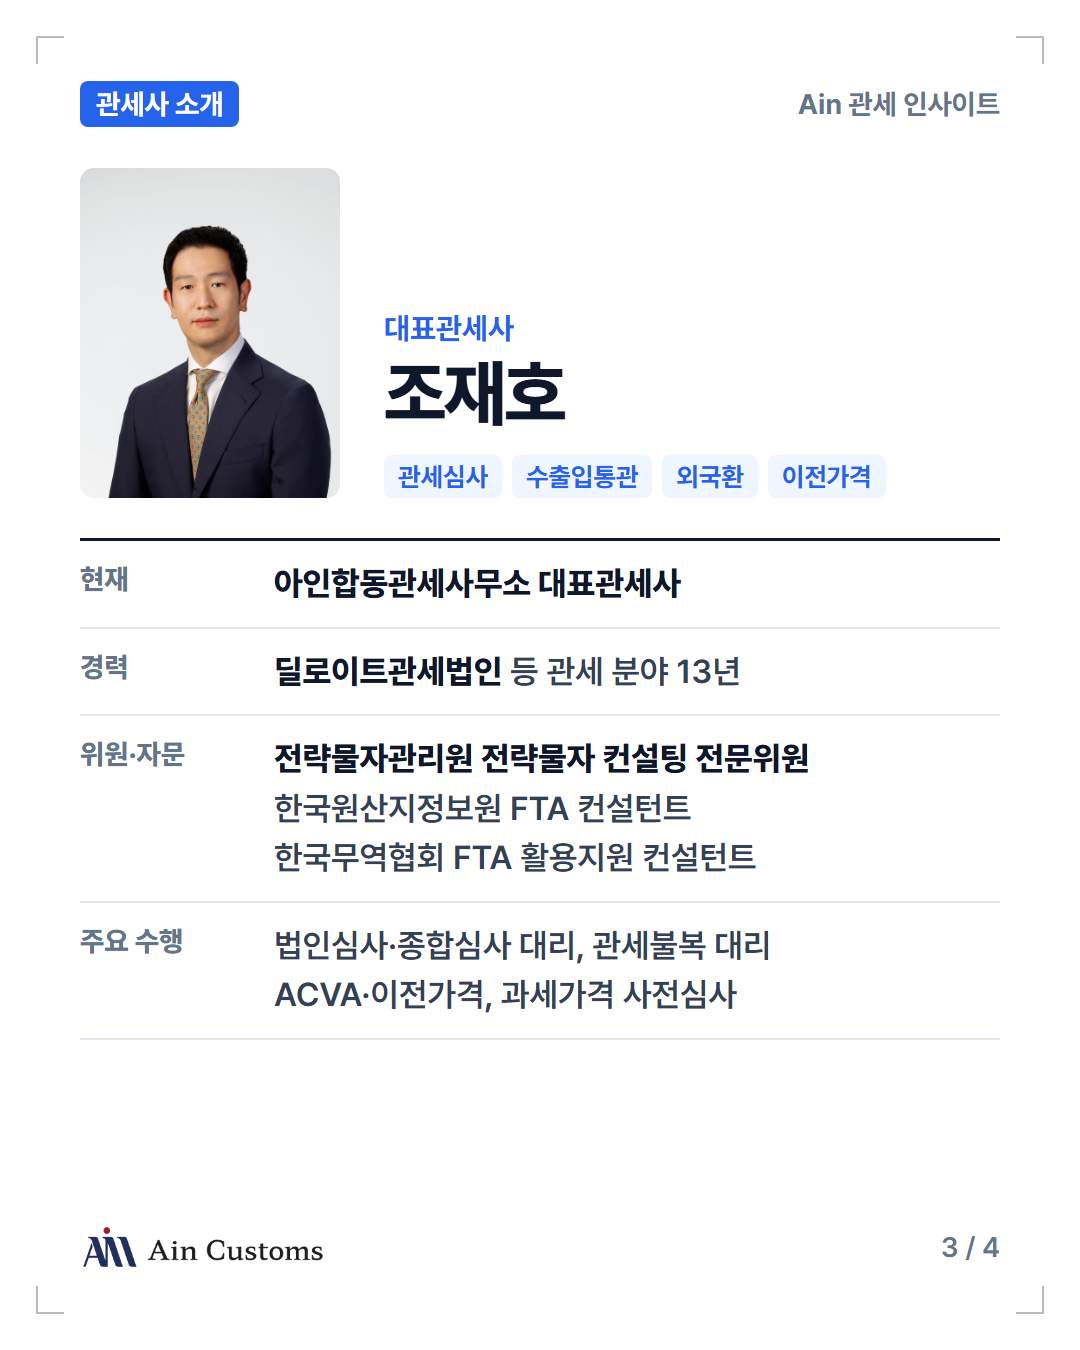
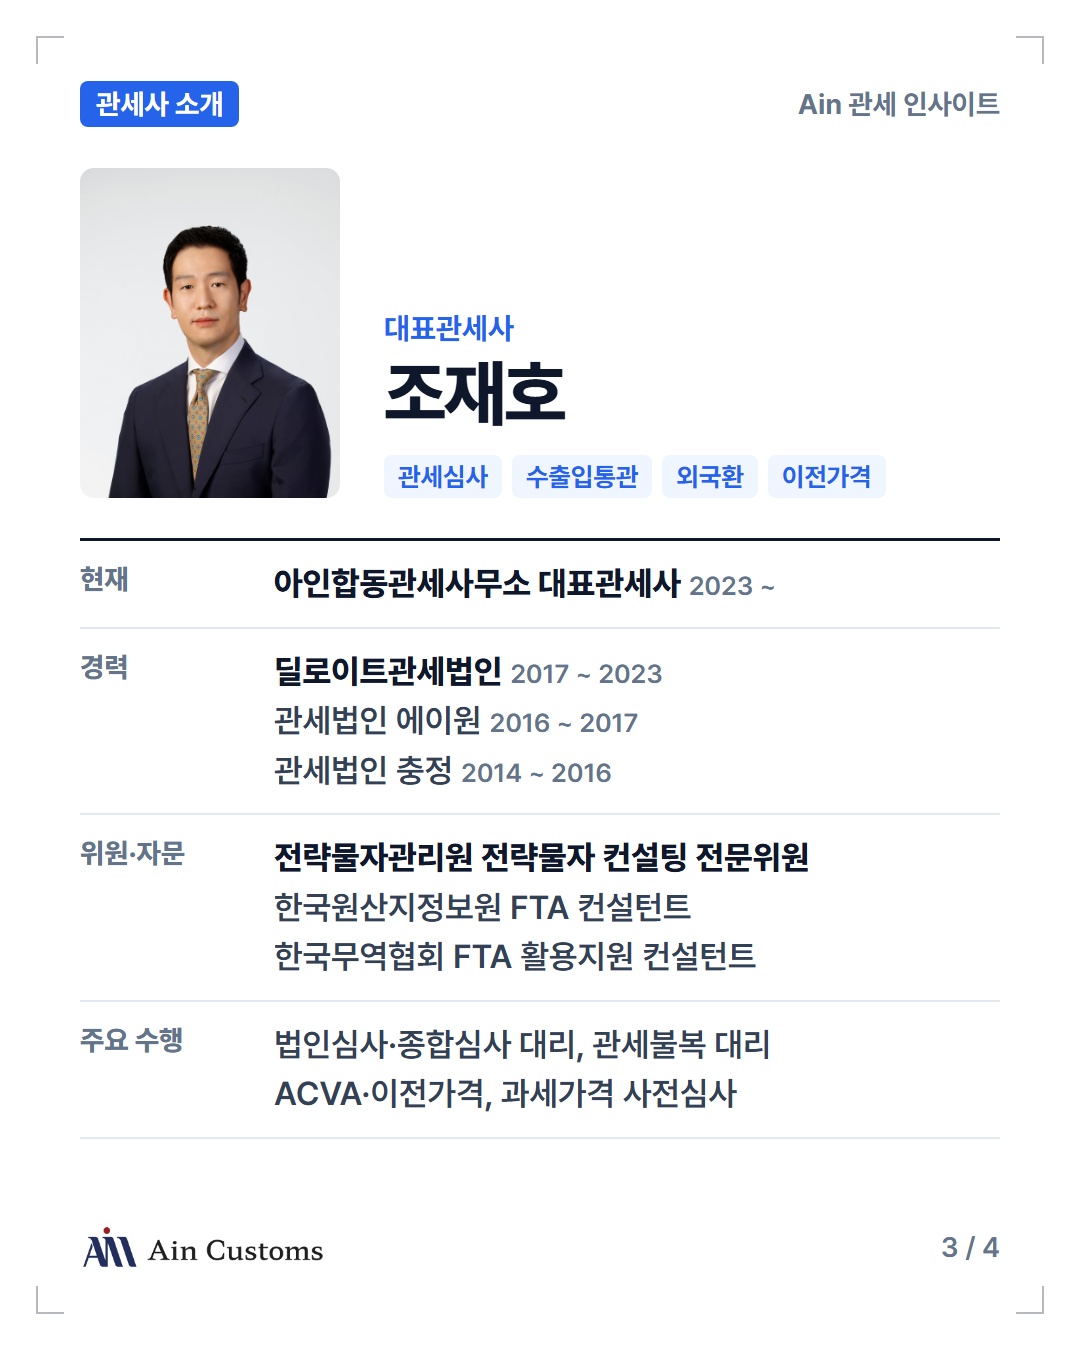
Show career periods instead of titles on the broker cards

diff --git a/content/naver-blog/blog-skin/about.html b/content/naver-blog/blog-skin/about.html
@@ -85,8 +85,8 @@ body { background: #444; padding: 40px; font-family: "Pretendard Variable", Pret
     </div>
   </div>
   <dl>
-    <div><dt>현재</dt><dd><b>아인합동관세사무소 대표관세사</b></dd></div>
-    <div><dt>경력</dt><dd><b>딜로이트관세법인</b> 관세팀 Manager<small>2017 ~ 2023</small><br>관세심사·조사, 외국환검사·조사 전담</dd></div>
+    <div><dt>현재</dt><dd><b>아인합동관세사무소 대표관세사</b><small>2023 ~</small></dd></div>
+    <div><dt>경력</dt><dd><b>딜로이트관세법인</b><small>2017 ~ 2023</small><br>관세심사·조사, 외국환검사·조사 전담</dd></div>
     <div><dt>자격</dt><dd><b>관세사</b> · 원산지관리사 · 국제무역사</dd></div>
     <div><dt>위원·자문</dt><dd><b>관세청 품목분류위원회 위원</b><br>원산지실무사 출제위원 · 원산지관리사 선정위원<br>한국원산지정보원 FTA 컨설턴트</dd></div>
     <div><dt>주요 수행</dt><dd>법인심사·종합심사 대리, 외환조사 대리<br>품목분류 사전심사·불복, ACVA 신청 대리</dd></div>
@@ -105,8 +105,8 @@ body { background: #444; padding: 40px; font-family: "Pretendard Variable", Pret
       <div class="focus"><span>관세심사</span><span>수출입통관</span><span>외국환</span><span>이전가격</span></div>
     </div>
   </div>  <dl>
-    <div><dt>현재</dt><dd><b>아인합동관세사무소 대표관세사</b></dd></div>
-    <div><dt>경력</dt><dd><b>딜로이트관세법인</b> 등 관세 분야 13년</dd></div>
+    <div><dt>현재</dt><dd><b>아인합동관세사무소 대표관세사</b><small>2023 ~</small></dd></div>
+    <div><dt>경력</dt><dd><b>딜로이트관세법인</b><small>2017 ~ 2023</small><br>관세법인 에이원<small>2016 ~ 2017</small><br>관세법인 충정<small>2014 ~ 2016</small></dd></div>
     <div><dt>위원·자문</dt><dd><b>전략물자관리원 전략물자 컨설팅 전문위원</b><br>한국원산지정보원 FTA 컨설턴트<br>한국무역협회 FTA 활용지원 컨설턴트</dd></div>
     <div><dt>주요 수행</dt><dd>법인심사·종합심사 대리, 관세불복 대리<br>ACVA·이전가격, 과세가격 사전심사</dd></div>
   </dl>

diff --git a/content/naver-blog/blog-skin/about-post.md b/content/naver-blog/blog-skin/about-post.md
@@ -8,13 +8,13 @@ Ain 관세 인사이트에 올라오는 글은 저희 관세사들이 직접 검
 
 [이미지 about-jsh.png]
 
-정석현 대표관세사는 2017년부터 2023년까지 딜로이트관세법인 관세팀 Manager로 근무하며 관세심사·조사와 외국환검사·조사 업무를 전문적으로 수행했습니다.
+정석현 대표관세사는 2017년부터 2023년까지 딜로이트관세법인에서 근무하며 관세심사·조사와 외국환검사·조사 업무를 전문적으로 수행했습니다.
 현재는 관세조사·종합심사 대리, 외환조사, 품목분류 사전심사와 불복을 주로 맡고 있습니다.
 관세청 품목분류위원회 위원, 원산지실무사 출제위원, 원산지관리사 선정위원으로도 활동하고 있습니다.
 
 [이미지 about-cjh.png]
 
-조재호 대표관세사는 딜로이트관세법인 등에서 관세 분야 13년 경력을 쌓았습니다.
+조재호 대표관세사는 관세법인 충정(2014~2016), 관세법인 에이원(2016~2017), 딜로이트관세법인(2017~2023)을 거쳤습니다.
 법인심사·종합심사 대리, 관세불복, ACVA·이전가격, 과세가격 사전심사를 주로 맡고 있습니다.
 전략물자관리원 전략물자 컨설팅 전문위원, 한국무역협회 FTA 활용지원 컨설턴트로 활동하고 있습니다.
 
